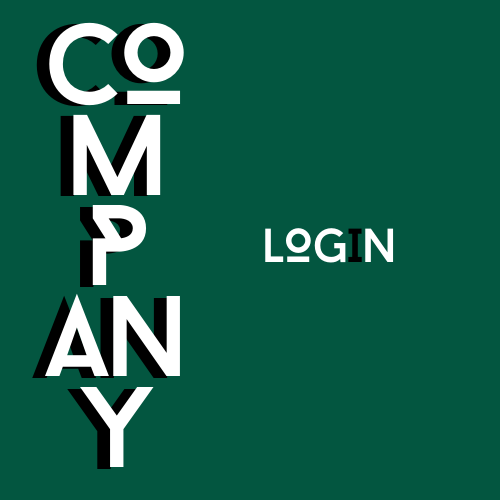
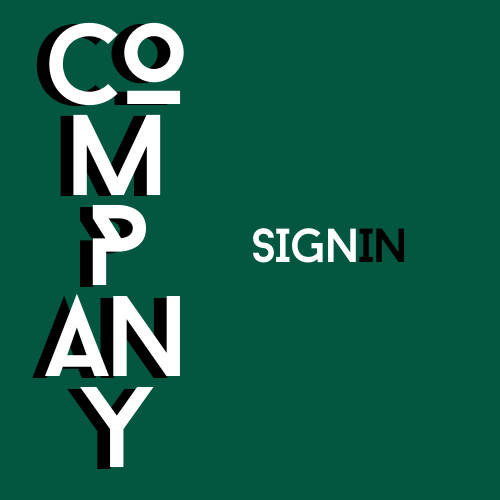
auth page added

Changed region(s): [[0.51, 0.45, 0.81, 0.54]]

diff --git a/FRONTEND/src/components/SignupPage.jsx b/FRONTEND/src/components/SignupPage.jsx
@@ -1,0 +1,87 @@
+import React from "react";
+import logo from "../../public/lark_logo.png";
+
+const SignupPage = ({displayFn}) => {
+  return (
+    <div
+      className="d-flex justify-content-center flex-column align-items-center"
+      style={{ backgroundColor: "var(--primary-green-color)", height: "100vh" }} id="signup"
+    >
+      <img src={logo} alt="logo_lark" height={100} />
+      <h1 className="fs-1 fw-bolder my-3">SIGNUP</h1>
+      <form
+        className="d-flex flex-column gap-2 p-5"
+        style={{ boxShadow: "1px 1px 19px 10px white", borderRadius: "10px" }}
+      >
+        <label id="username" className="fs-3 fw-bold">
+          Username
+        </label>
+        <input
+          type="text"
+          placeholder="Type your username"
+          style={{
+            width: "400px",
+            height: "60px",
+            padding: "10px",
+            borderRadius: "20px",
+            border: "none",
+          }}
+        />
+
+        <label id="fullname" className="fs-3 fw-bold">
+          Fullname
+        </label>
+        <input
+          type="text"
+          placeholder="Type your fullname"
+          style={{
+            width: "400px",
+            height: "60px",
+            padding: "10px",
+            borderRadius: "20px",
+            border: "none",
+          }}
+        />
+
+        <label id="email" className="fs-3 fw-bold">
+          Email
+        </label>
+        <input
+          type="text"
+          placeholder="Type your email"
+          style={{
+            width: "400px",
+            height: "60px",
+            padding: "10px",
+            borderRadius: "20px",
+            border: "none",
+          }}
+        />
+
+        <label id="password" className="fs-3 fw-bold">
+          Password
+        </label>
+        <input
+          type="text"
+          placeholder="Type your password"
+          style={{
+            width: "400px",
+            height: "60px",
+            padding: "10px",
+            borderRadius: "20px",
+            border: "none",
+          }}
+        />
+
+        <p className="text-white" >
+          Already have an account?{" "}
+          <a href="#login" className="text-info fw-bold" onClick={() => displayFn("signup")}>
+            Signin
+          </a>
+        </p>
+      </form>
+    </div>
+  );
+};
+
+export default SignupPage;

diff --git a/FRONTEND/src/components/LoginPage.jsx b/FRONTEND/src/components/LoginPage.jsx
@@ -1,0 +1,56 @@
+import React from 'react'
+import logo from "../../public/lark_logo.png";
+
+const LoginPage = ({displayFn}) => {
+    return (
+        <div
+            className="d-flex justify-content-center flex-column align-items-center"
+            style={{ backgroundColor: "var(--primary-green-color)", height: "100vh" }} id='login'
+        >
+            <img src={logo} alt="logo_lark" height={100} />
+            <h1 className="fs-1 fw-bolder my-3">LOGIN</h1>
+            <form
+                className="d-flex flex-column gap-2 p-5"
+                style={{ boxShadow: "1px 1px 19px 10px white", borderRadius: "10px" }}
+            >
+                <label id="username" className="fs-3 fw-bold">
+                    Username
+                </label>
+                <input
+                    type="text"
+                    placeholder="Type your username"
+                    style={{
+                        width: "400px",
+                        height: "60px",
+                        padding: "10px",
+                        borderRadius: "20px",
+                        border: "none",
+                    }}
+                />
+                <label id="password" className="fs-3 fw-bold">
+                    Password
+                </label>
+                <input
+                    type="text"
+                    placeholder="Type your password"
+                    style={{
+                        width: "400px",
+                        height: "60px",
+                        padding: "10px",
+                        borderRadius: "20px",
+                        border: "none",
+                    }}
+                />
+
+                <p className="text-white" >
+                    Don't have an account?{" "}
+                    <a href='#signup' className="text-info fw-bold" onClick={() => displayFn("login")}>
+                        Register
+                    </a>
+                </p>
+            </form>
+        </div>
+    )
+}
+
+export default LoginPage

diff --git a/FRONTEND/src/components/JumboTron.jsx b/FRONTEND/src/components/JumboTron.jsx
@@ -15,7 +15,7 @@ const JumboTron = ({nav, noBg}) => {
         <div className='container'>
         <div className="row py-lg-5">
           <div className="col-lg-6 col-md-12 py-5">
-            <div className='logo_lark' onClick={() => nav("land")}>
+            <div className='logo_lark' onClick={() => nav("auth")}>
               <img src={clogo} alt="logo-img" className='logo_lark_img'/>
             </div>
             {/* <p>
@@ -24,7 +24,7 @@ const JumboTron = ({nav, noBg}) => {
           </p> */}
           </div>
           <div className="col-lg-6 col-md-12 py-5">
-            <div className='logo_lark' onClick={() => nav("land")}>
+            <div className='logo_lark' onClick={() => nav("auth")}>
               <img src={ulogo} alt="logo-img" className='logo_lark_img'/>
             </div>
             {/* <p>
@@ -32,6 +32,7 @@ const JumboTron = ({nav, noBg}) => {
             <a href="#" className="btn btn-secondary my-2">Secondary action</a>
           </p> */}
         </div>
+        <h1 className='text-white fs-1'>Are you new here! <a href="">Register</a></h1>
         </div>
         </div>
           
@@ -65,4 +66,4 @@ const JumboTron = ({nav, noBg}) => {
   }
 }
 
-export default JumboTron
+export default JumboTron;

diff --git a/FRONTEND/src/App.jsx b/FRONTEND/src/App.jsx
@@ -1,18 +1,18 @@
 import { useState } from "react"
 import LandingPage from "./components/pages/LandingPage"
 import MainPage from "./components/pages/MainPage"
+import AuthPage from "./components/pages/AuthPage";
 
 
 function App() {
   const [navigateToPage, setNavigateToPage] = useState("land");
 
   const nav = (page) => {
-    console.log(page)
     setNavigateToPage(page);
   }
   return (
     <div>
-      {navigateToPage === "land" ? <LandingPage nav={nav}/> :
+      {navigateToPage === "land" ? <LandingPage nav={nav}/> : navigateToPage === "auth" ? <AuthPage /> :
       <MainPage nav={nav} />}
     </div>
   )

diff --git a/FRONTEND/src/components/pages/AuthPage.jsx b/FRONTEND/src/components/pages/AuthPage.jsx
@@ -1,0 +1,18 @@
+import React, { useState } from 'react'
+import SignupPage from '../SignupPage'
+import LoginPage from '../LoginPage'
+
+const AuthPage = () => {
+    const [displayAuth, setDisplayAuth] = useState("signup");
+    const displayFn = (display) => {
+        setDisplayAuth(display)
+    }
+  return (
+    <div>
+        {displayAuth === "login" ? <SignupPage displayFn={displayFn}/> :
+        <LoginPage displayFn={displayFn}/>}
+    </div>
+  )
+}
+
+export default AuthPage

diff --git a/Backend_main/server.js b/Backend_main/server.js
@@ -23,3 +23,5 @@ app.listen(PORT, () => {
 
 
 
+
+
